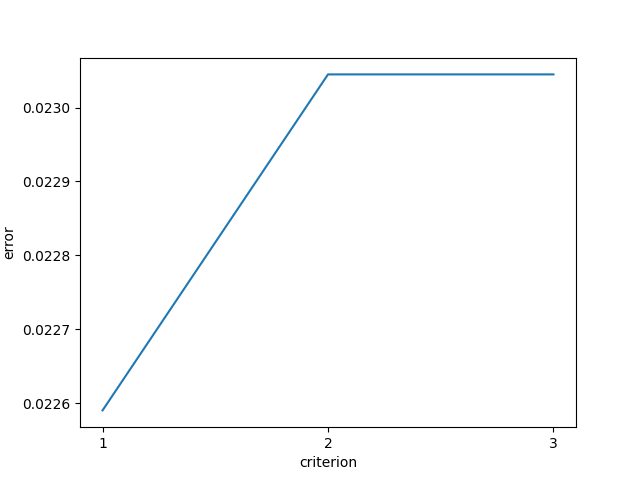
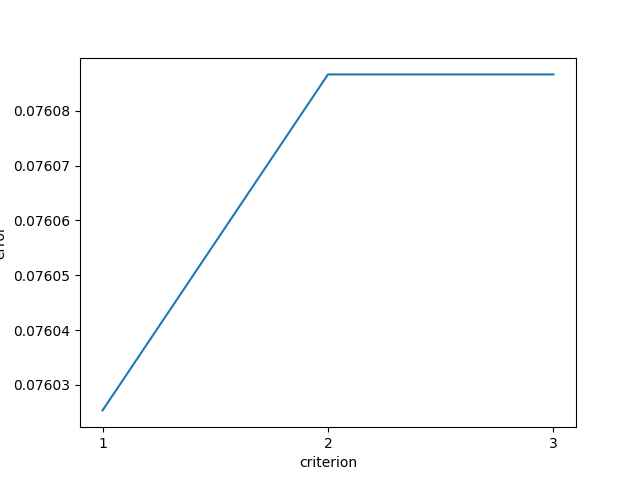
some update about the random_forest.py followed by main.py

diff --git a/random_forest.py b/random_forest.py
@@ -7,9 +7,9 @@ from sklearn.preprocessing import OneHotEncoder, StandardScaler
 from sklearn.model_selection import train_test_split, cross_val_score
 from sklearn.metrics import confusion_matrix
 
-def random_forest_train(X_train, y_train, X_test, y_test, n_estimators, random_state, criterion, max_depth=None, min_samples_split=2, min_samples_leaf=1, min_weight_fraction_leaf=0.0, max_leaf_nodes=None, min_impurity_decrease=0.0, bootstrap=True, oob_score=False, n_jobs=None, verbose=0, warm_start=False, class_weight=None, ccp_alpha=0.0, max_samples=None  ):
+def random_forest_train(X_train, y_train, X_test, y_test, n_estimators, random_state, criterion, max_depth=None, min_samples_split=2, min_samples_leaf=1, min_weight_fraction_leaf=0.0, max_leaf_nodes=None, min_impurity_decrease=0.0, bootstrap=True, oob_score=False, n_jobs=None, verbose=0, warm_start=False, class_weight=None, ccp_alpha=0.0, max_samples=None, cv=10):
     rF_model = RandomForestClassifier(n_estimators=n_estimators, random_state=random_state, criterion=criterion, max_depth=max_depth, min_samples_split=min_samples_split, min_samples_leaf=min_samples_leaf, min_weight_fraction_leaf=min_weight_fraction_leaf, max_leaf_nodes=max_leaf_nodes, min_impurity_decrease=min_impurity_decrease, bootstrap=bootstrap, oob_score=oob_score, n_jobs=n_jobs, verbose=verbose, warm_start=warm_start, class_weight=class_weight, ccp_alpha=ccp_alpha, max_samples=max_samples)
-    cross_validation(rF_model, X_train, y_train, 10, 'f1')
+    cross_validation(rF_model, X_train, y_train, cv, 'f1')
 
     rF_model.fit(X_train, y_train)
     y_pred = rF_model.predict(X_test)
@@ -19,8 +19,8 @@ def random_forest_train(X_train, y_train, X_test, y_test, n_estimators, random_s
     return FPR, error_rate
 
 
-def rf_fit(X: pd.DataFrame):
-    X_train, X_test = train_test_split(X, test_size=0.3, train_size=0.7)    # split data into train and test
+def rf_fit(X: pd.DataFrame, portion, cv):
+    X_train, X_test = train_test_split(X, test_size=1-portion, train_size=portion)    # split data into train and test
 
     y_train = X_train['fraud_bool']
     y_test = X_test['fraud_bool']
@@ -37,7 +37,7 @@ def rf_fit(X: pd.DataFrame):
     FPR, error = [], []
 
     for criterion in criterions:
-        fpr, lr_error = random_forest_train(X_train, y_train, X_test, y_test, n_estimators=100, random_state=100, criterion=criterion, max_depth=None, min_samples_split=2, min_samples_leaf=1, min_weight_fraction_leaf=0.0, max_leaf_nodes=None, min_impurity_decrease=0.0, bootstrap=True, oob_score=False, n_jobs=None, verbose=0, warm_start=False, class_weight=None, ccp_alpha=0.0, max_samples=None)
+        fpr, lr_error = random_forest_train(X_train, y_train, X_test, y_test, n_estimators=100, random_state=100, criterion=criterion, max_depth=None, min_samples_split=2, min_samples_leaf=1, min_weight_fraction_leaf=0.0, max_leaf_nodes=None, min_impurity_decrease=0.0, bootstrap=True, oob_score=False, n_jobs=None, verbose=0, warm_start=False, class_weight=None, ccp_alpha=0.0, max_samples=None, cv=cv)
 
         print(fpr, lr_error)
         FPR.append(fpr)
@@ -46,7 +46,15 @@ def rf_fit(X: pd.DataFrame):
     plot.draw(criterion_numlist, FPR, 'RF', 'criterion', 'FPR')
     plot.draw(criterion_numlist, error, 'RF', 'criterion', 'error')
 
+    the_best(FPR, error, criterions)
     return FPR, error
+
+def the_best(FPR, error, solvers):
+    '''
+    Print out hyperparameter that gives the best error and f1 score 
+    '''
+    print(f"The best solver for logistic regression is {solvers[error.index(max(error))]} based on f1 score:\navg:{sum(error)/len(error)}")
+    print(f"The best solver for logistic regression is {solvers[FPR.index(min(FPR))]} based on False Positive rate:\navg:{sum(FPR)/len(FPR)}")
 
 #------------------------------------------------------------
 

diff --git a/main.py b/main.py
@@ -10,6 +10,7 @@ def main():
 
     while 1:
         print("**************************************\nData Preperation:\n**************************************")
+        print("Please enter a float between 0 and 1 for sample portion:\n")
         sample_portion1 = float(input("sample portion for non-fraud class:"))
         sample_portion2 = float(input("sample portion for fraud class:"))
 
@@ -49,7 +50,7 @@ def main():
 
             case 3:
                 import random_forest
-                rF_FPR,rF_error = random_forest.rf_fit(X)
+                rF_FPR,rF_error = random_forest.rf_fit(X,portion=portion,cv=cv)
                 print(rF_FPR,rF_error)
 
             case 4:
